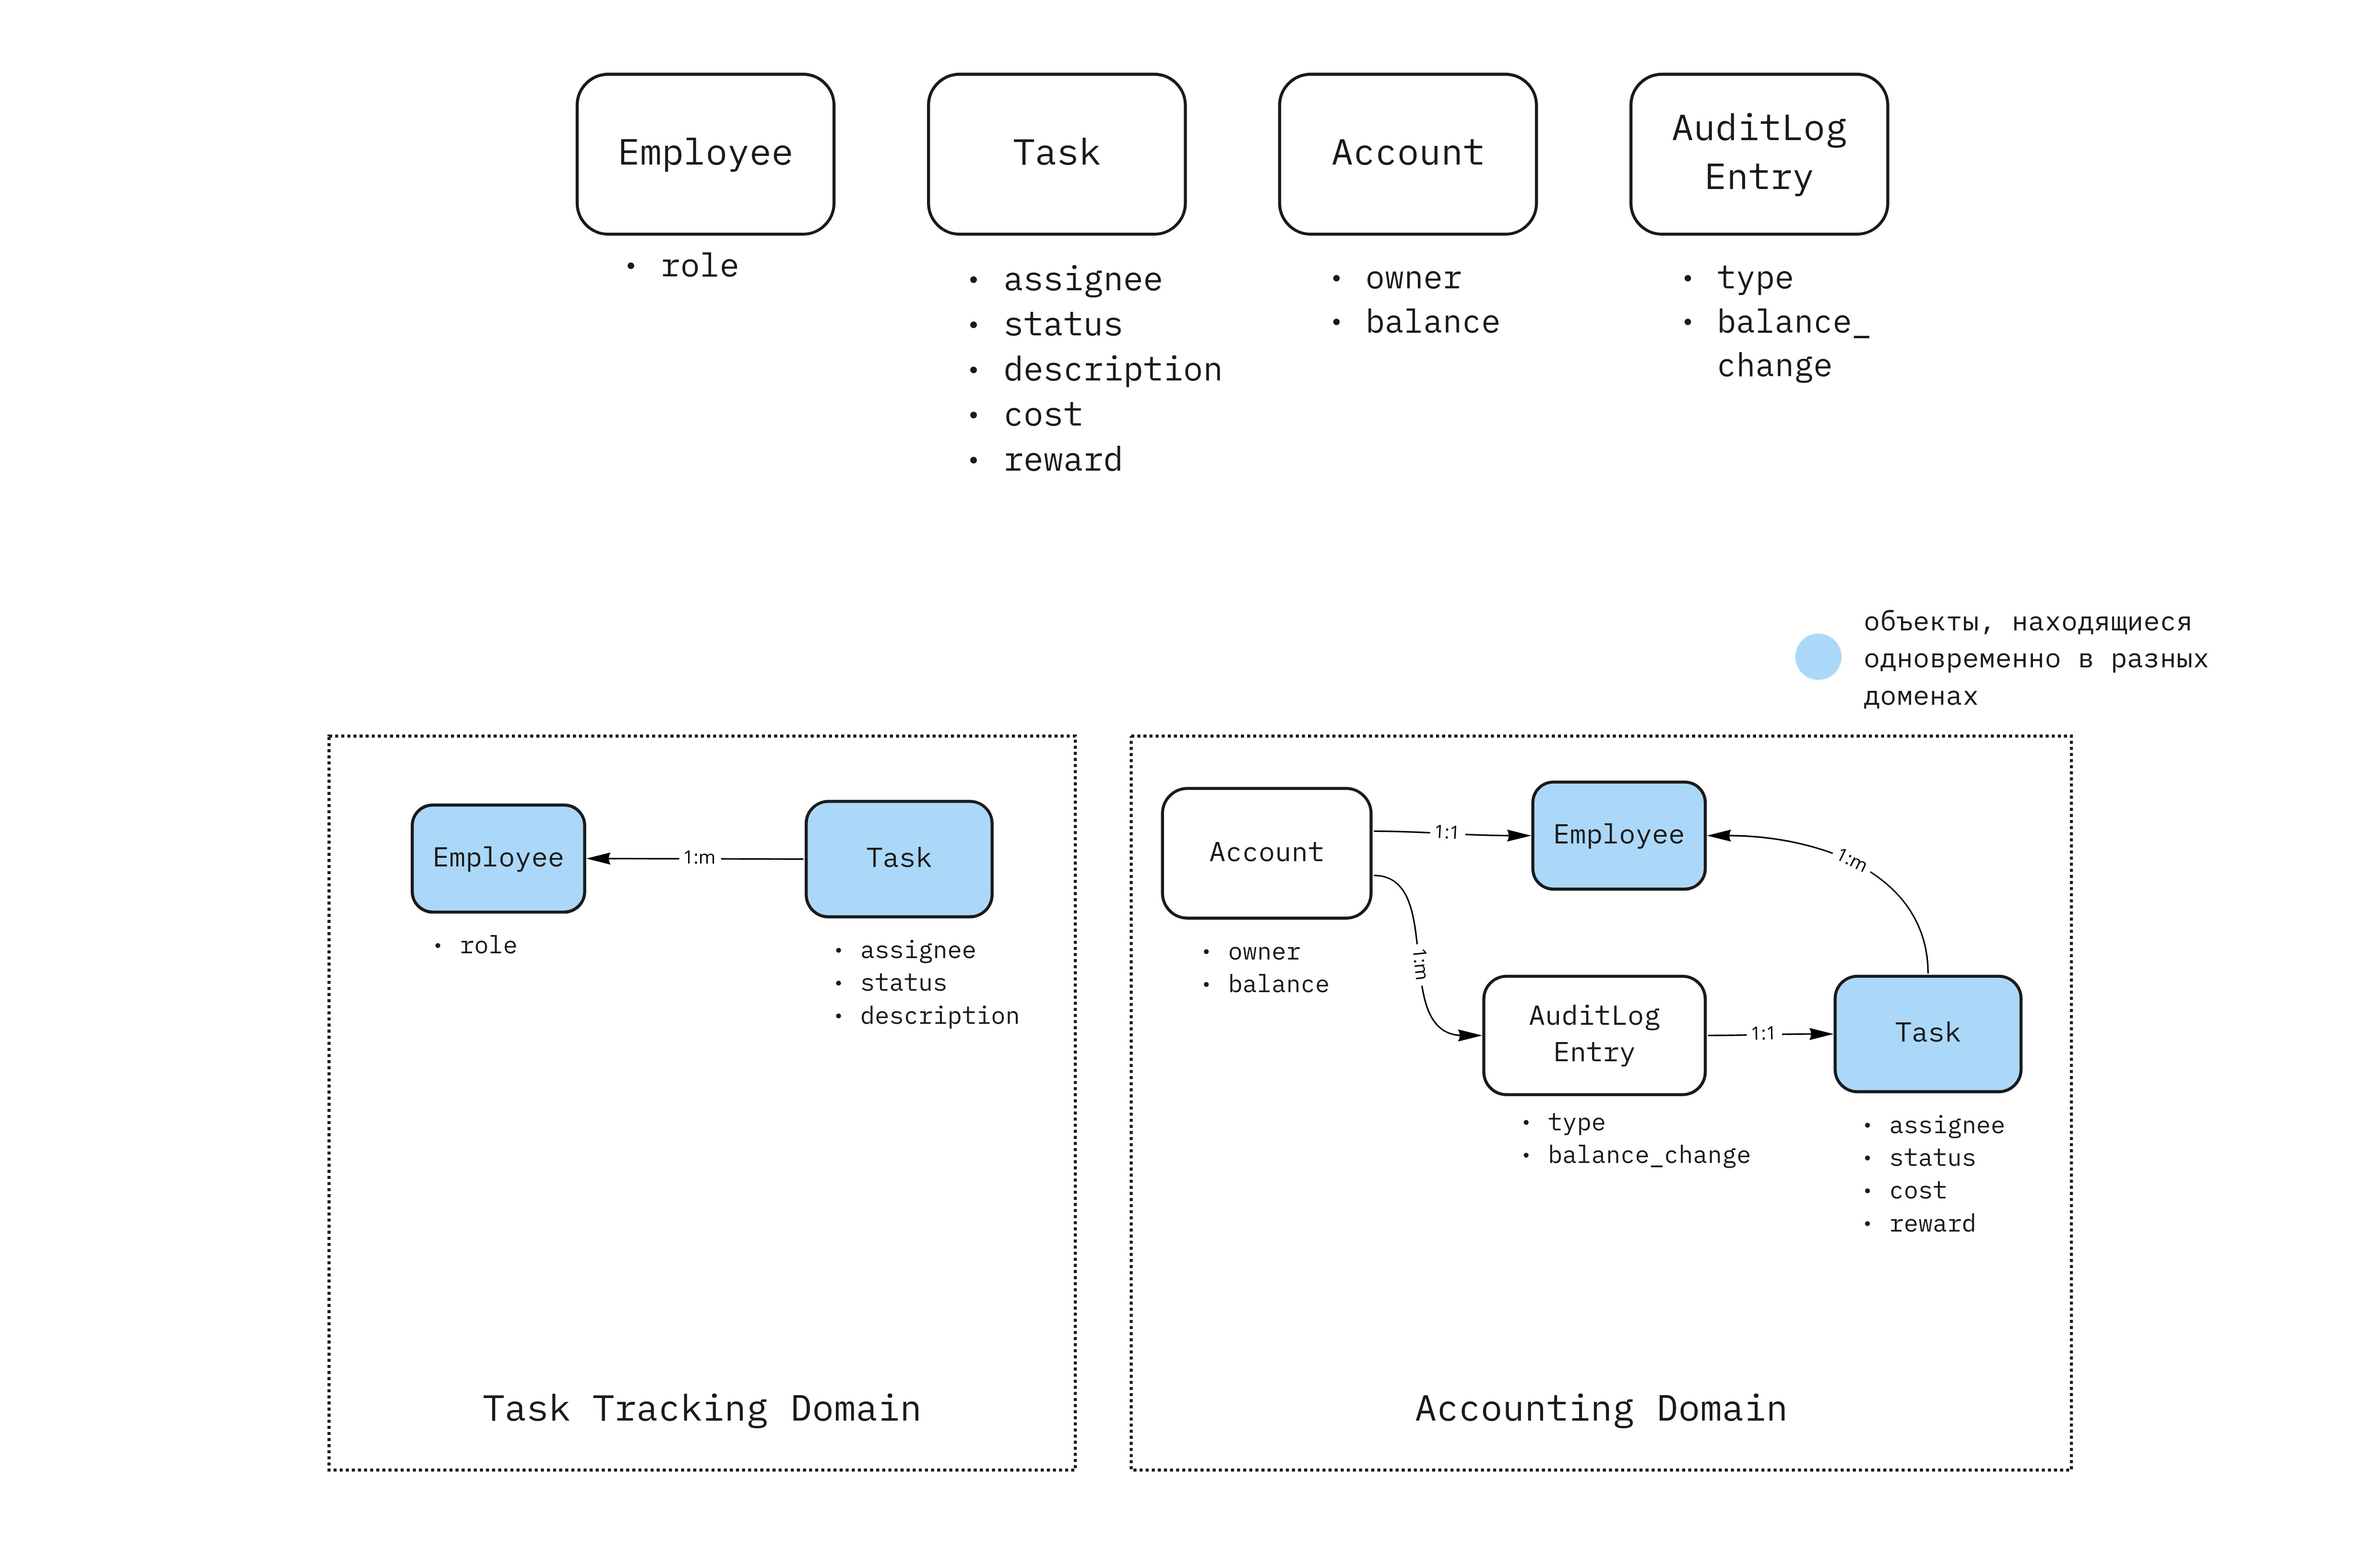
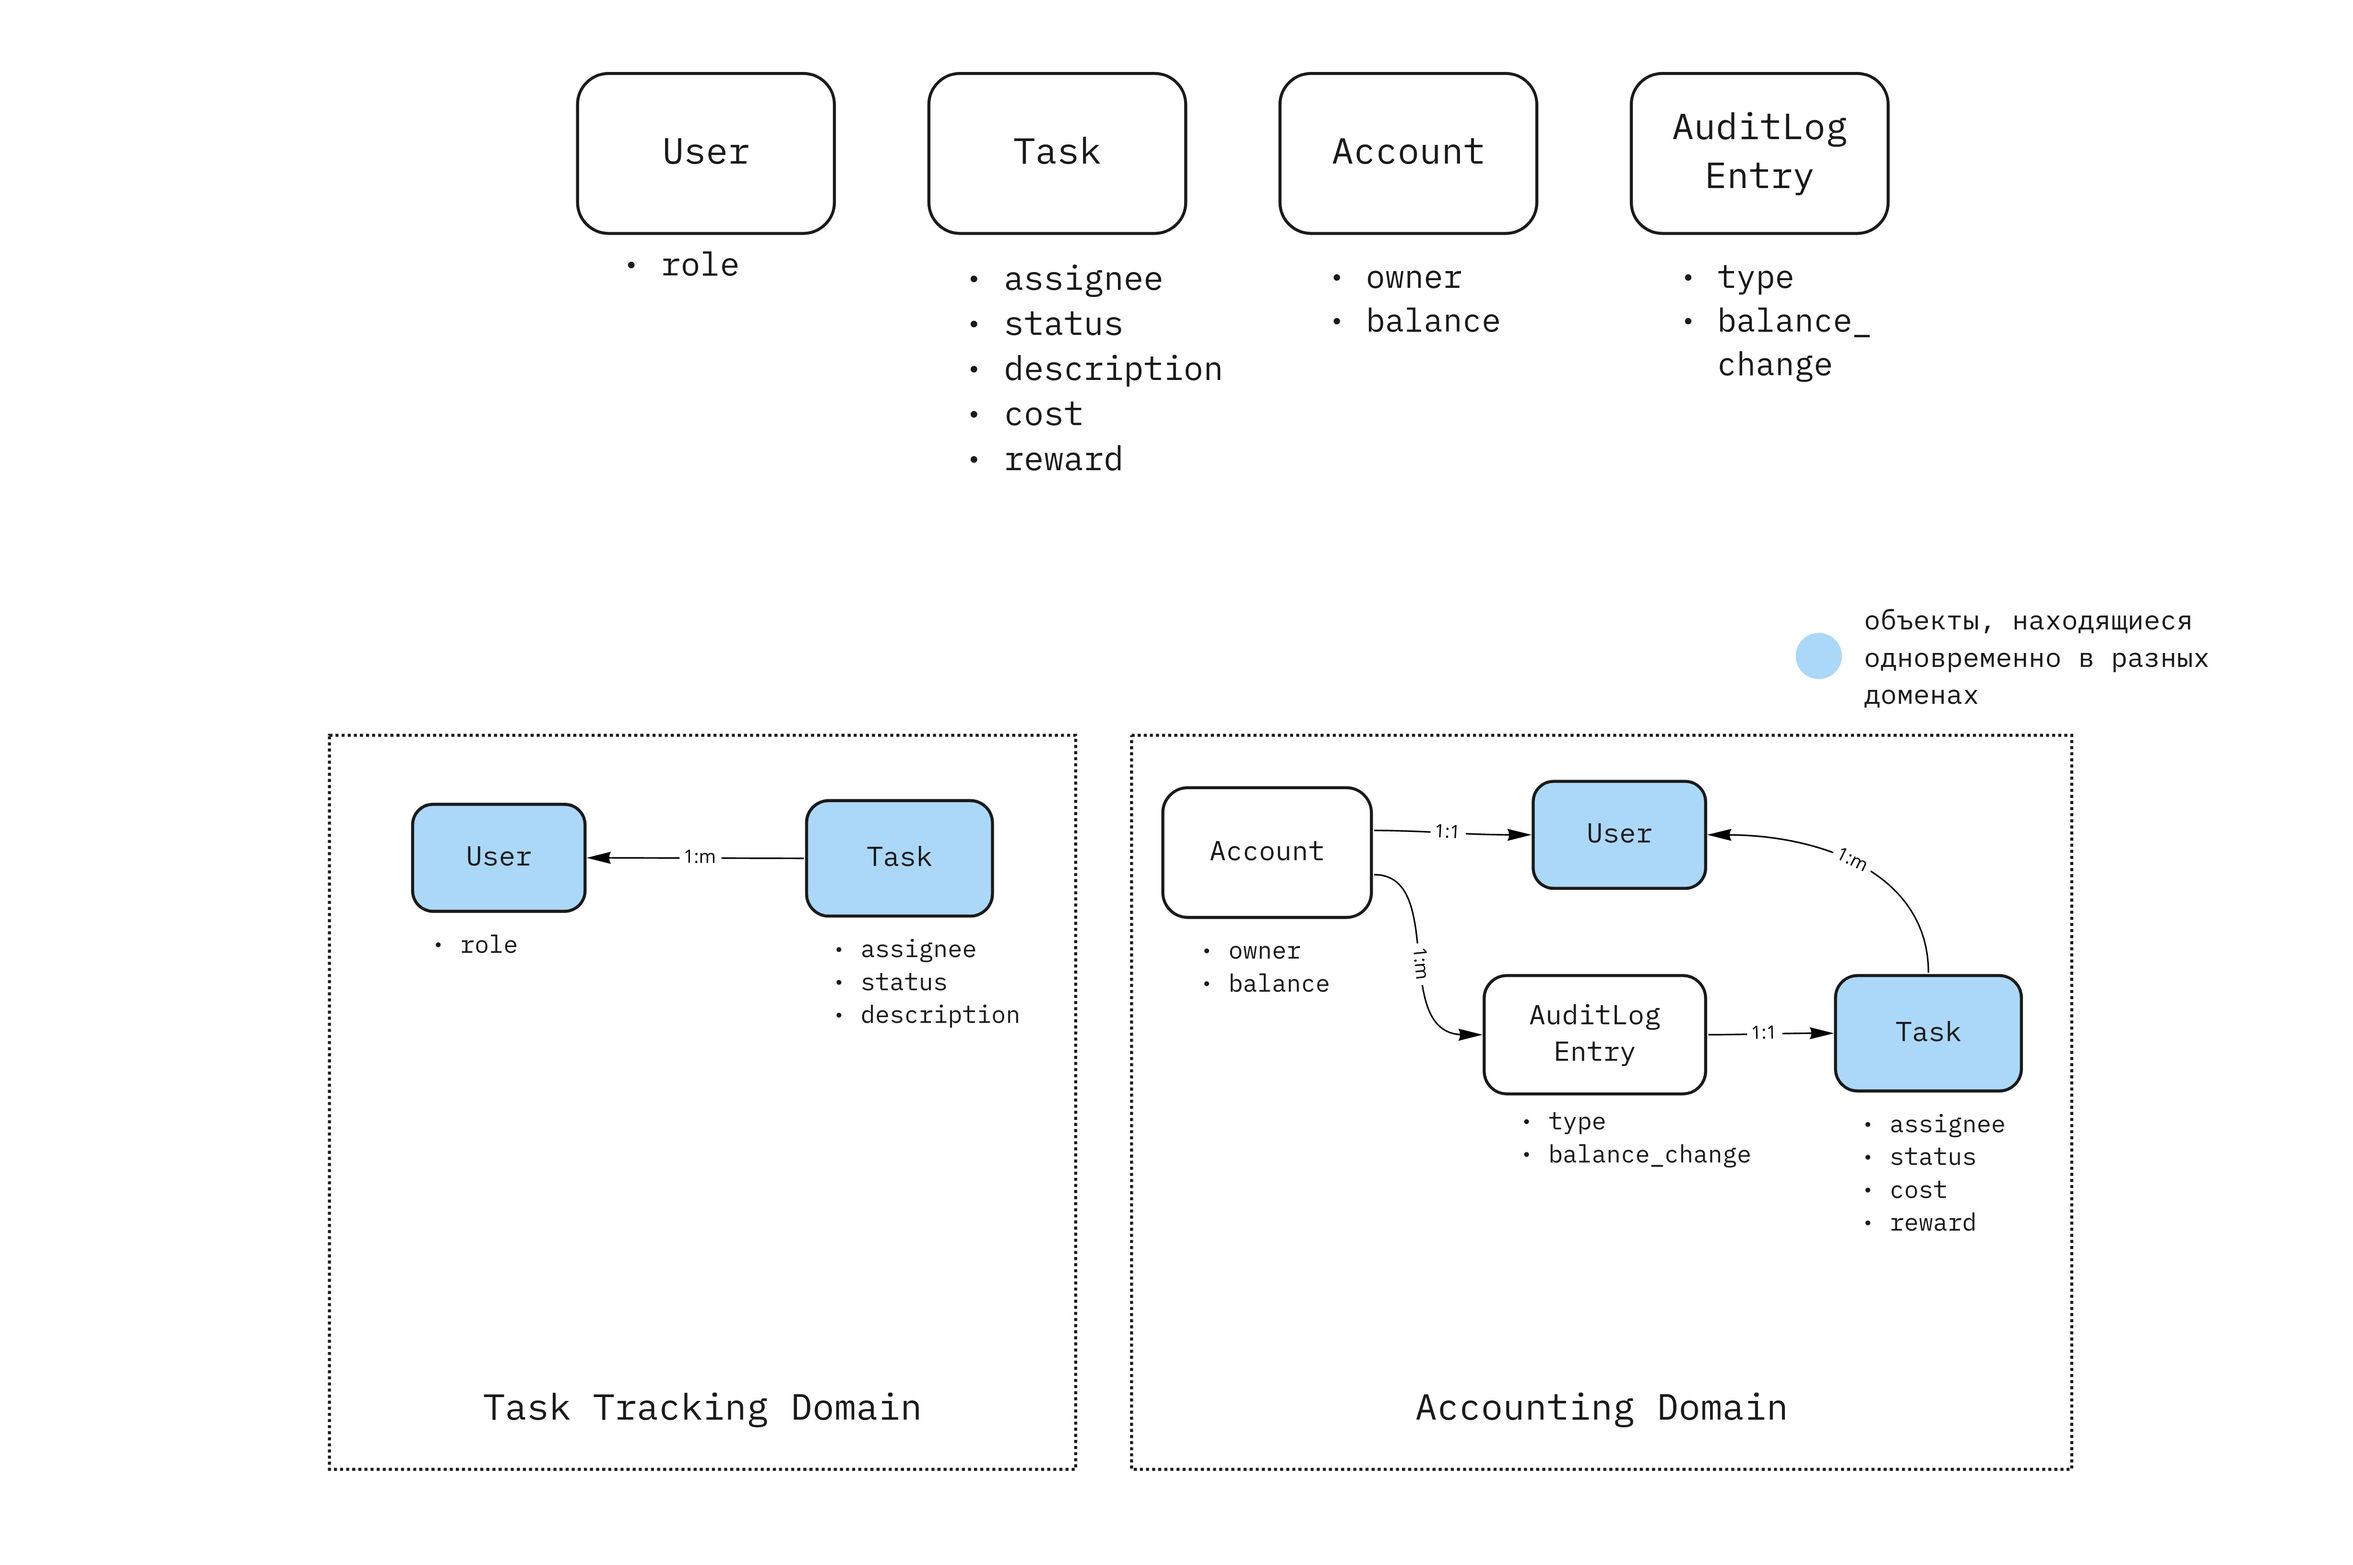
rename Employee entity

diff --git a/docs/architecture.md b/docs/architecture.md
@@ -20,7 +20,7 @@
 ![Data Modeling](./data-modeling.jpg)
 
 Сущности, выделенные в процессе Data Modeling:
-- **Employee** — моделирует сотрудника, пользующегося системой. Сотрудники отличаются ролями: обычный сотрудник, менеджер, бухгалтер
+- **User** — моделирует сотрудника, пользующегося системой. Сотрудники отличаются ролями: обычный сотрудник, менеджер, бухгалтер
 - **Task** — моделирует задачу, заведённую в системе. Характеризуется статусом, описанием, сотрудником, на которого она назначена, стоимостью и величиной вознаграждения за выполнение.
 - **Account** — счёт сотрудника, на который зачисляется и списываются оплата за назначенные и выполненные задачи.
 - **AuditLog Entry** — запись в аудитлоге. Создаётся всякий раз, когда меняется баланс счёта сотрудника. Описывается типом и величиной изменения.
@@ -29,7 +29,7 @@
 
 Я выделяю два домена: **Task Tracking Domain** и **Accounting Domain**. Выделять аналитику в отдельный домен посчитал нецелесообразным, так как на этапе Event Storming не было выделено ни одной бизнес цепочки связанной с аналитикой. Аналитику можно будет построить используя сущности Accounting Domain, реплицируя данные из Accounting Domain.
 
-В результате такого разделения, видно что сущности **Employee** и **Task** являются общими для разных доменов. Поэтому каждый будет содержать некое представление этой сущности в своей предметной области.
+В результате такого разделения, видно что сущности **User** и **Task** являются общими для разных доменов. Поэтому каждый будет содержать некое представление этой сущности в своей предметной области.
 
 ## Сервисы и связи
 
